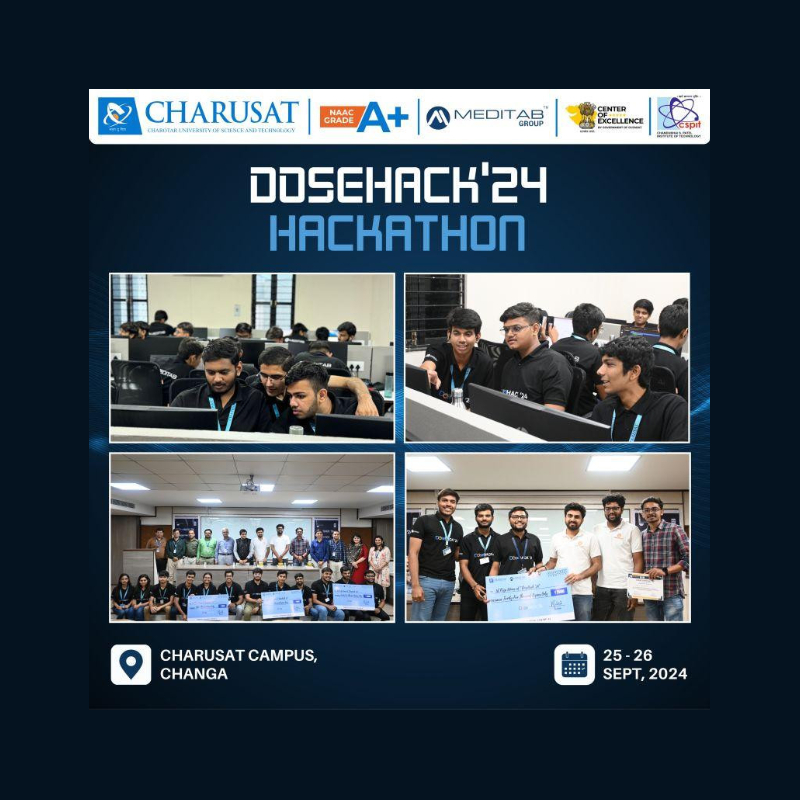
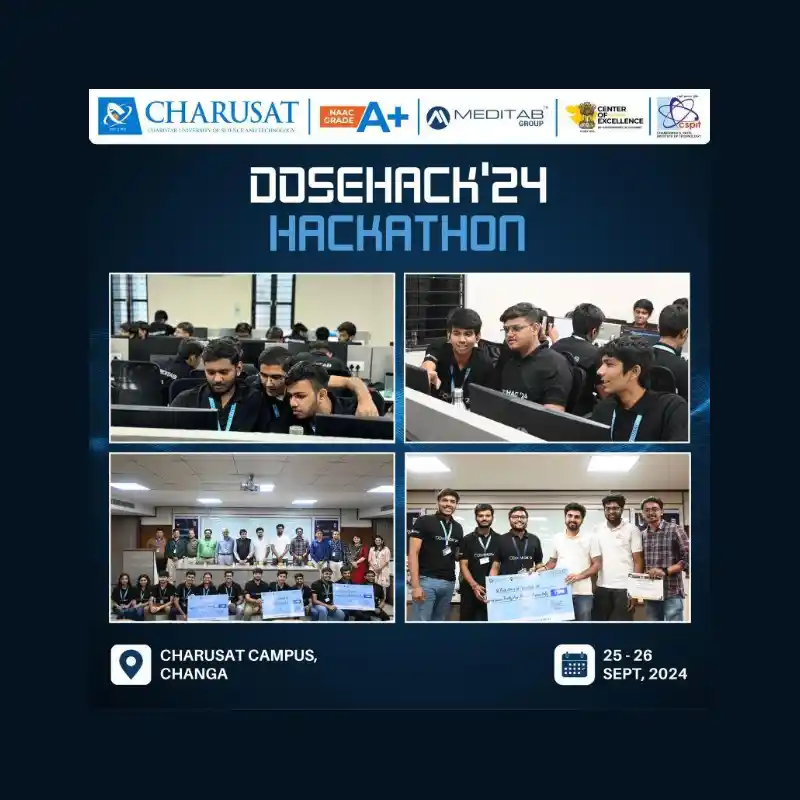
Images to webp and compressed

diff --git a/index.html b/index.html
@@ -2935,18 +2935,18 @@ document.addEventListener('DOMContentLoaded', () => {
     <script>
       const galleryData = [
         {
-          title: "Cultural Fest",
+          title: "SPOURAL",
           date: "March 25, 2024",
           category: "Cultural",
-          images: ["images1/events_1.webp", "images1/events_2.webp"],
-          description: "Annual cultural celebration at CSPIT.",
+          images: ["images1/events_1.webp", "images1/gallery/Cultural/cultural2.webp","images1/gallery/Cultural/cultural3.webp","images1/gallery/Cultural/cultural4.webp","images1/gallery/Cultural/cultural5.webp","images1/gallery/Cultural/cultural7.webp"],
+          description: "SPOURAL celebration at CSPIT.",
         },
         {
           title: "TEDx",
           date: "January 18-19, 2024",
           category: "Technical",
           images: ["images1/gallery/TEDx/ted1.webp","images1/gallery/TEDx/ted4.webp","images1/gallery/TEDx/ted5.webp","images1/gallery/TEDx/ted10.webp","images1/gallery/TEDx/ted15.webp","images1/gallery/TEDx/ted18.webp"],
-          description: "Celebrating sportsmanship and athleticism.",
+          description: "TedX: Ingenious Creations",
         },
         {
           title: "AWS Student Community Day",
@@ -2980,7 +2980,7 @@ document.addEventListener('DOMContentLoaded', () => {
           title: "Sports at CHARUSAT",
           // date: "September 25-26, 2024",
           category: "Sports",
-          images: ["images1/gallery/dosehack/dose0.webp","images1/gallery/dosehack/dose1.webp","images1/gallery/dosehack/dose2.webp","images1/gallery/dosehack/dose7.webp","images1/gallery/dosehack/dose9.webp"],
+          images: ["images1/gallery/Sports/sports4.webp","images1/gallery/Sports/sports1.webp","images1/gallery/Sports/sports2.webp","images1/gallery/Sports/sports3.webp","images1/gallery/Sports/sports5.webp","images1/gallery/Sports/sports6.webp","images1/gallery/Sports/sports7.webp"],
           description: "Various sports promoted at CHARUSAT",
         },
       ];
@@ -3025,7 +3025,7 @@ document.addEventListener('DOMContentLoaded', () => {
           img.alt = event.title;
           img.className = "gallery-image";
           img.dataset.index = galleryData.indexOf(event);
-    
+          img.loading="lazy";
           const caption = document.createElement("div");
           caption.className = "gallery-card-caption";
     
@@ -3042,6 +3042,14 @@ document.addEventListener('DOMContentLoaded', () => {
           col.appendChild(card);
           galleryContainer.appendChild(col);
         });
+        // if (filteredData.length <= 2) {
+        //   galleryContainer.style.display = "flex";
+        //   galleryContainer.style.justifyContent = "center";
+        //   galleryContainer.style.alignItems = "center";
+        //   galleryContainer.style.flexWrap = "wrap";
+        // } else {
+        //   galleryContainer.style.display = ""; 
+        // }
       }
     
       // Tab Switching
